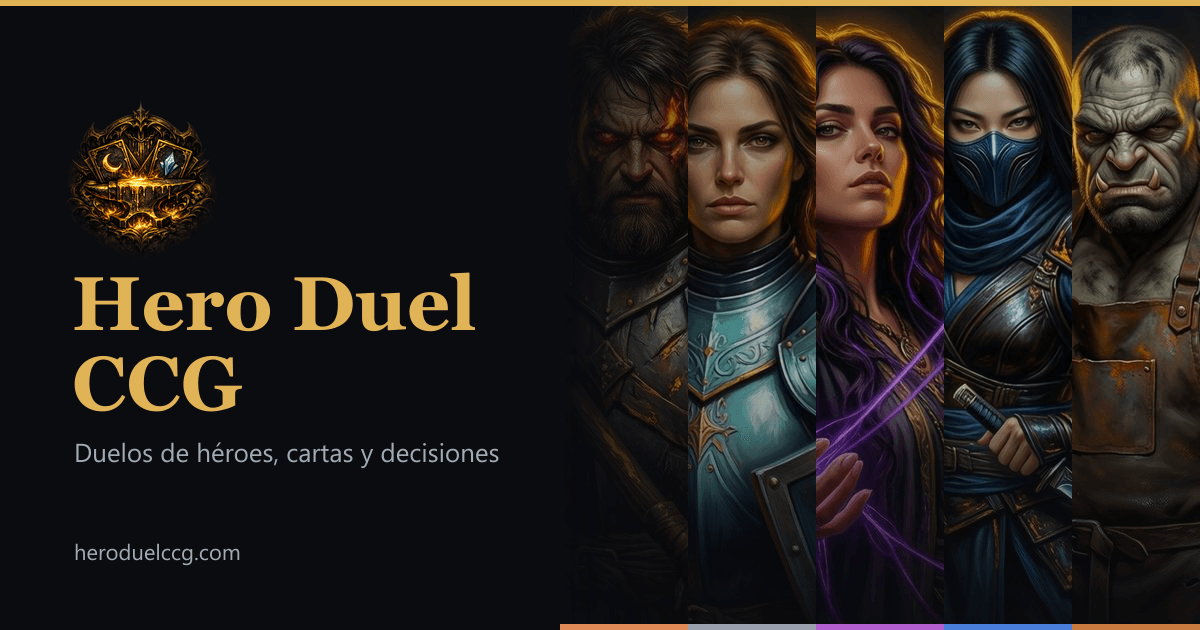
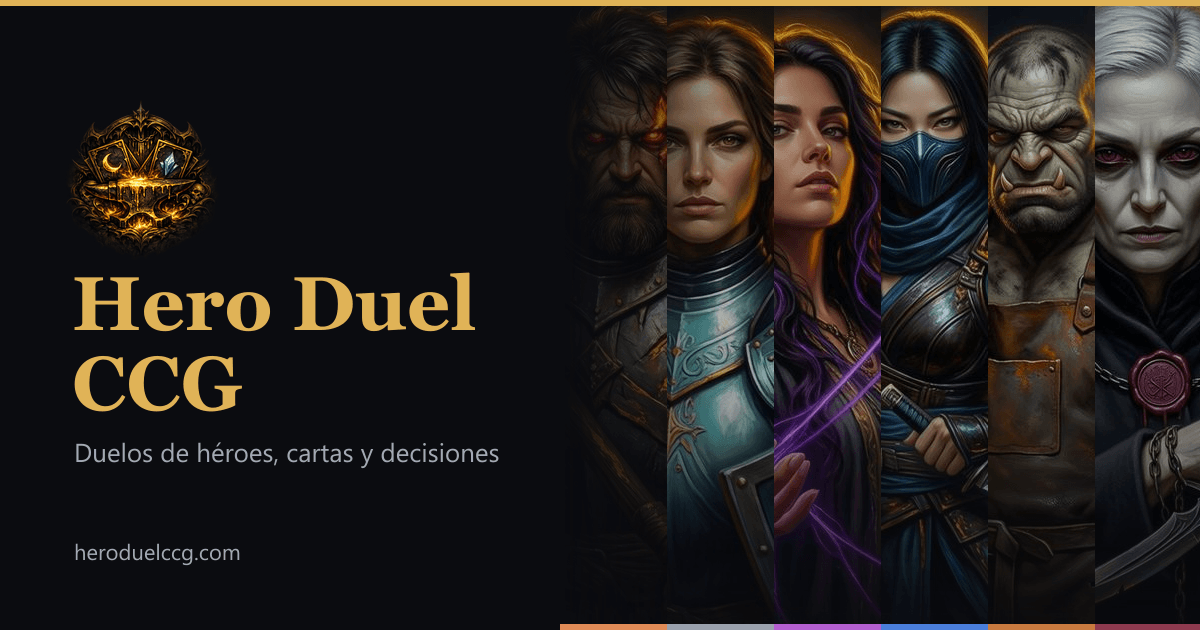
feat(heroes): give Vhassa a full profile from game version 0.8.0
The owner asked to show the sixth hero in full. Hero data is imported
from game version 0.8.0 (stable mirror commit aa6cb84); the other five
heroes are unchanged. Vhassa gets her portrait and arena, the game's
crimson with an AA text tint, a blood-drop fallback emblem, and her
role and style. She leaves the coming-soon list.

Every hero profile now names its booster pack exactly as the game
localizes it. Short names and epithets are split by shared helpers,
since Vhassa's name carries a comma. The social image shows six heroes.

diff --git a/src/i18n/pages/heroes.ts b/src/i18n/pages/heroes.ts
@@ -6,16 +6,34 @@
  * archivo solo resume la identidad de cada héroe tal como la describe el GDD
  * (§4.1 identidad y §4.2 territorio). Un test exige que cada héroe del juego
  * tenga su entrada aquí, para que un héroe nuevo no aparezca sin presentación.
+ *
+ * El sobre de cada héroe es el nombre exacto que localiza el juego en
+ * `ui.collection.booster_name.<id>` (Cards_es / Cards_en, versión 0.8.0). El
+ * dueño aprobó mostrarlos el 2026-11-03.
  */
 import type { Lang } from '~/i18n/ui';
 
 /** Glifo del emblema: una forma por pilar o territorio del héroe. */
-export type HeroGlyph = 'blade' | 'shield' | 'rune' | 'crescent' | 'hammer';
+export type HeroGlyph = 'blade' | 'shield' | 'rune' | 'crescent' | 'hammer' | 'drop';
 
 export interface HeroPresentation {
   glyph: HeroGlyph;
   role: Record<Lang, string>;
   style: Record<Lang, string>;
+  booster: Record<Lang, string>;
+}
+
+/**
+ * Nombre corto de un héroe, sin su epíteto. Los nombres del juego llegan con o
+ * sin coma («Sable la Guardiana», «Vhassa, la Pactada»).
+ */
+export function heroShortName(name: string): string {
+  return name.split(/[\s,]/)[0]!;
+}
+
+/** El epíteto que sigue al nombre corto, sin la coma: «la Pactada». */
+export function heroEpithet(name: string): string {
+  return name.slice(heroShortName(name).length).replace(/^,?\s*/, '');
 }
 
 export const heroPresentation: Record<string, HeroPresentation> = {
@@ -26,6 +44,7 @@ export const heroPresentation: Record<string, HeroPresentation> = {
       es: 'Acumula furia turno a turno y la descarga en un golpe devastador. Cada ataque atraviesa parte de la armadura rival.',
       en: 'Builds fury turn after turn and unleashes it in one devastating blow. Every attack cuts through part of the enemy armor.',
     },
+    booster: { es: 'El Rugido del Hierro', en: 'The Iron Roar' },
   },
   sable: {
     glyph: 'shield',
@@ -34,6 +53,7 @@ export const heroPresentation: Record<string, HeroPresentation> = {
       es: 'La vida más alta del juego. Su armadura dura más, la remacha cada turno y, cuando llega el momento, embiste con su propio muro.',
       en: 'The highest life in the game. Armor lasts longer, gets riveted back every turn and, when the time comes, the wall itself becomes the battering ram.',
     },
+    booster: { es: 'La Templanza del Muro', en: "The Wall's Temper" },
   },
   yrenna: {
     glyph: 'rune',
@@ -42,6 +62,7 @@ export const heroPresentation: Record<string, HeroPresentation> = {
       es: 'Convierte sus trinkets en energía extra, golpea sin que la armadura sirva de nada y rehace la mano entera cuando la necesita.',
       en: 'Turns trinkets into extra energy, strikes straight past armor and rebuilds the whole hand when it is needed.',
     },
+    booster: { es: 'El Tejido del Vacío', en: 'The Weave of the Void' },
   },
   shouny: {
     glyph: 'crescent',
@@ -50,6 +71,7 @@ export const heroPresentation: Record<string, HeroPresentation> = {
       es: 'Vacía la mano rival y se alimenta de cada descarte. Tiene la vida más baja del juego: debe ganar antes de que la atrapen.',
       en: "Empties the enemy's hand and feeds on every discard. With the lowest life in the game, Shouny has to win before getting caught.",
     },
+    booster: { es: 'Los Hilos de la Penumbra', en: 'The Threads of Penumbra' },
   },
   krunk: {
     glyph: 'hammer',
@@ -58,6 +80,18 @@ export const heroPresentation: Record<string, HeroPresentation> = {
       es: 'Abolla y rompe el equipo rival, roba una carta por cada pieza destrozada y remata con todo lo que acabó en el descarte.',
       en: 'Dents and breaks enemy gear, draws a card for every piece wrecked and finishes with everything that ended up in the discard pile.',
     },
+    booster: { es: 'Los Despojos de la Forja', en: "The Forge's Spoils" },
+  },
+  vhassa: {
+    glyph: 'drop',
+    // Territorio firmado en el GDD §4.2: «Sangre — la vida como recurso». El
+    // estilo resume su kit como lo cuenta CHANGELOG_Jugadores 0.8.0.
+    role: { es: 'La vida como recurso', en: 'Life as a resource' },
+    style: {
+      es: 'Paga con su propia vida para golpear más fuerte: su Tributo de Sangre le quita vida para que el siguiente ataque pegue más, y puede repetirlo en el mismo turno. Su Rito Carmesí golpea más cuanta más vida le falta.',
+      en: 'Pays with her own life to hit harder: her Blood Tribute costs her life so her next attack lands heavier, and she can repeat it in the same turn. Her Crimson Rite hits harder the more life she is missing.',
+    },
+    booster: { es: 'Las Ofrendas del Pacto', en: "The Pact's Offerings" },
   },
 };
 
@@ -74,16 +108,8 @@ export interface UpcomingHero {
   booster?: Record<Lang, string>;
 }
 
-export const upcomingHeroes: UpcomingHero[] = [
-  // Nombre firmado en el GDD §4.2 (2026-08-02). El epíteto en inglés sigue sin
-  // confirmar, así que en inglés va solo el nombre. El dueño aprobó publicar el
-  // nombre del sobre el 2026-11-02.
-  {
-    id: 'vhassa',
-    name: { es: 'Vhassa, la Pactada', en: 'Vhassa' },
-    booster: { es: 'Las Ofrendas del Pacto', en: "The Pact's Offerings" },
-  },
-];
+// Vhassa salió de aquí el 2026-11-03, al llegar a los datos del juego (0.8.0).
+export const upcomingHeroes: UpcomingHero[] = [];
 
 export interface HeroesPageCopy {
   /** `{names}` se sustituye por los nombres de los héroes publicados: el texto no fija cuántos son. */

diff --git a/tests/heroes.test.ts b/tests/heroes.test.ts
@@ -1,7 +1,7 @@
 import { describe, expect, it } from 'vitest';
 import { heroes } from '~/data';
 import { heroColorStyle } from '~/heroColors';
-import { heroesPageCopy, upcomingHeroes } from '~/i18n/pages/heroes';
+import { heroEpithet, heroShortName, heroesPageCopy, upcomingHeroes } from '~/i18n/pages/heroes';
 import { homeCopy } from '~/i18n/pages/home';
 
 // El juego seguirá sumando héroes: la web no puede depender de cuántos hay hoy.
@@ -19,6 +19,22 @@ describe('número de héroes abierto', () => {
   it('la descripción de la página de héroes lleva los nombres desde los datos', () => {
     for (const copy of Object.values(heroesPageCopy)) {
       expect(copy.meta.description).toContain('{names}');
+    }
+  });
+});
+
+describe('nombres de héroe', () => {
+  it('separa nombre y epíteto con o sin coma', () => {
+    expect([heroShortName('Sable la Guardiana'), heroEpithet('Sable la Guardiana')]).toEqual(['Sable', 'la Guardiana']);
+    expect([heroShortName('Vhassa, la Pactada'), heroEpithet('Vhassa, la Pactada')]).toEqual(['Vhassa', 'la Pactada']);
+    expect([heroShortName('Vhassa'), heroEpithet('Vhassa')]).toEqual(['Vhassa', '']);
+  });
+
+  it('ningún nombre corto de los datos arrastra puntuación', () => {
+    for (const hero of heroes) {
+      for (const name of Object.values(hero.name)) {
+        expect(heroShortName(name)).toMatch(/^\p{L}+$/u);
+      }
     }
   });
 });

diff --git a/src/styles/tokens.css b/src/styles/tokens.css
@@ -62,11 +62,15 @@
   --hd-hero-yrenna: #b45fd0;
   --hd-hero-shouny: #4a7edb;
   --hd-hero-krunk: #c97a3f;
+  --hd-hero-vhassa: #8e3a4f;
   --hd-hero-brakka-text: #e08b57;
   --hd-hero-sable-text: #9aa0ad;
   --hd-hero-yrenna-text: #c27ddb;
   --hd-hero-shouny-text: #6f98e6;
   --hd-hero-krunk-text: #c97a3f;
+  /* El carmesí del juego da entre 2,3:1 y 2,7:1: para texto, el mismo tono
+     (345°, 42 %) aclarado al 62 %, que da 5,0:1 en la superficie más clara. */
+  --hd-hero-vhassa-text: #c7758a;
   /* Respaldo para un héroe que aún no tiene color aquí (src/heroColors.ts). */
   --hd-hero-fallback: var(--hd-gold-400);
   --hd-hero-fallback-text: var(--hd-gold-400);

diff --git a/docs/MEMORIA.md b/docs/MEMORIA.md
@@ -113,6 +113,28 @@ Estado medido en la última verificación: build en verde, 4 páginas,
     cuando eso pase. El mismo día el dueño aprobó publicar el nombre de su
     sobre, tal como lo localiza el juego: «Las Ofrendas del Pacto» / «The
     Pact's Offerings».
+  - **Vhassa pasa a ficha completa con los datos de la 0.8.0** (dueño,
+    2026-11-03). La 0.8.0 todavía no está repartida a jugadores (solo en el
+    entorno development de UGS, según el equipo del juego); el dueño decidió
+    mostrarla igual, porque la web ya advierte que los valores pueden cambiar
+    con el balance. Detalles:
+    - En inglés va «Vhassa, the Pactbound», el texto que lleva la 0.8.0.
+    - La fuente es el espejo estable `TCGMaster-github`, commit `aa6cb84`
+      (Plastic cs87), leído con `git show`. No se usa el árbol de trabajo de
+      Plastic, que puede tener cambios sin registrar.
+    - La campaña es la de los datos («El Precio del Pacto», 4 peleas contra
+      Vhassa). No se toma del GDD §4.2, que todavía pone a Sable de jefe.
+    - El rol sale del territorio firmado («la vida como recurso»). El estilo
+      resume el kit como lo cuenta CHANGELOG_Jugadores 0.8.0. El lema «Todo
+      tiene precio. Ella paga primero.» sigue siendo propuesta y no se usa.
+    - El color es el del juego, `#8e3a4f`. Para texto se usa `#c7758a`, el
+      mismo tono aclarado, que da 5,0:1 o más.
+  - **Cada ficha de héroe nombra su sobre** (dueño, 2026-11-03), con el
+    nombre exacto de la localización del juego
+    (`ui.collection.booster_name.<id>`).
+  - El arte PVP del lobby (`Sprites/PVPBanner.png`, fuente de
+    `scenes/duel.jpg`) cambió en la 0.8.0. La web sigue con el anterior: el
+    cambio no se pidió y queda para cuando el dueño lo decida.
 - **Los datos del juego no publicables todavía** (decisión del juego, no de la
   web): fechas internas de la beta y del lanzamiento, nombres de rango (copian
   a World of Warcraft y se van a sustituir), precios y número de cartas.

diff --git a/docs/CHANGELOG.md b/docs/CHANGELOG.md
@@ -14,6 +14,18 @@ convencionales. Las entradas no se escriben a mano.
 
 ## [No publicado]
 
+### Añadido — Vhassa, sexto héroe (2026-11-03, rama `feat/heroes-vhassa`)
+
+- Vhassa, la Pactada, deja de ser "Próximamente". Tiene ficha completa en
+  Héroes: retrato sobre su arena, vida, pasiva, habilidades, campaña y su
+  color. También entra en la alineación de la portada y en sus cartas.
+- Datos del juego importados de la versión **0.8.0** (antes 0.6.0). Los otros
+  cinco héroes no cambian.
+- Cada ficha de héroe nombra su sobre, tal como lo localiza el juego.
+- La imagen para redes muestra a los seis héroes.
+- Emblema de respaldo nuevo para Vhassa (gota de sangre) y nombres de héroe
+  con coma bien partidos en todo el sitio (`heroShortName`, `heroEpithet`).
+
 ### Corregido — cartas de héroe (2026-11-02, rama `fix/landing-hero-card-life`)
 
 - En "Elige a tu héroe", la vida va al pie de cada carta y queda a la misma
